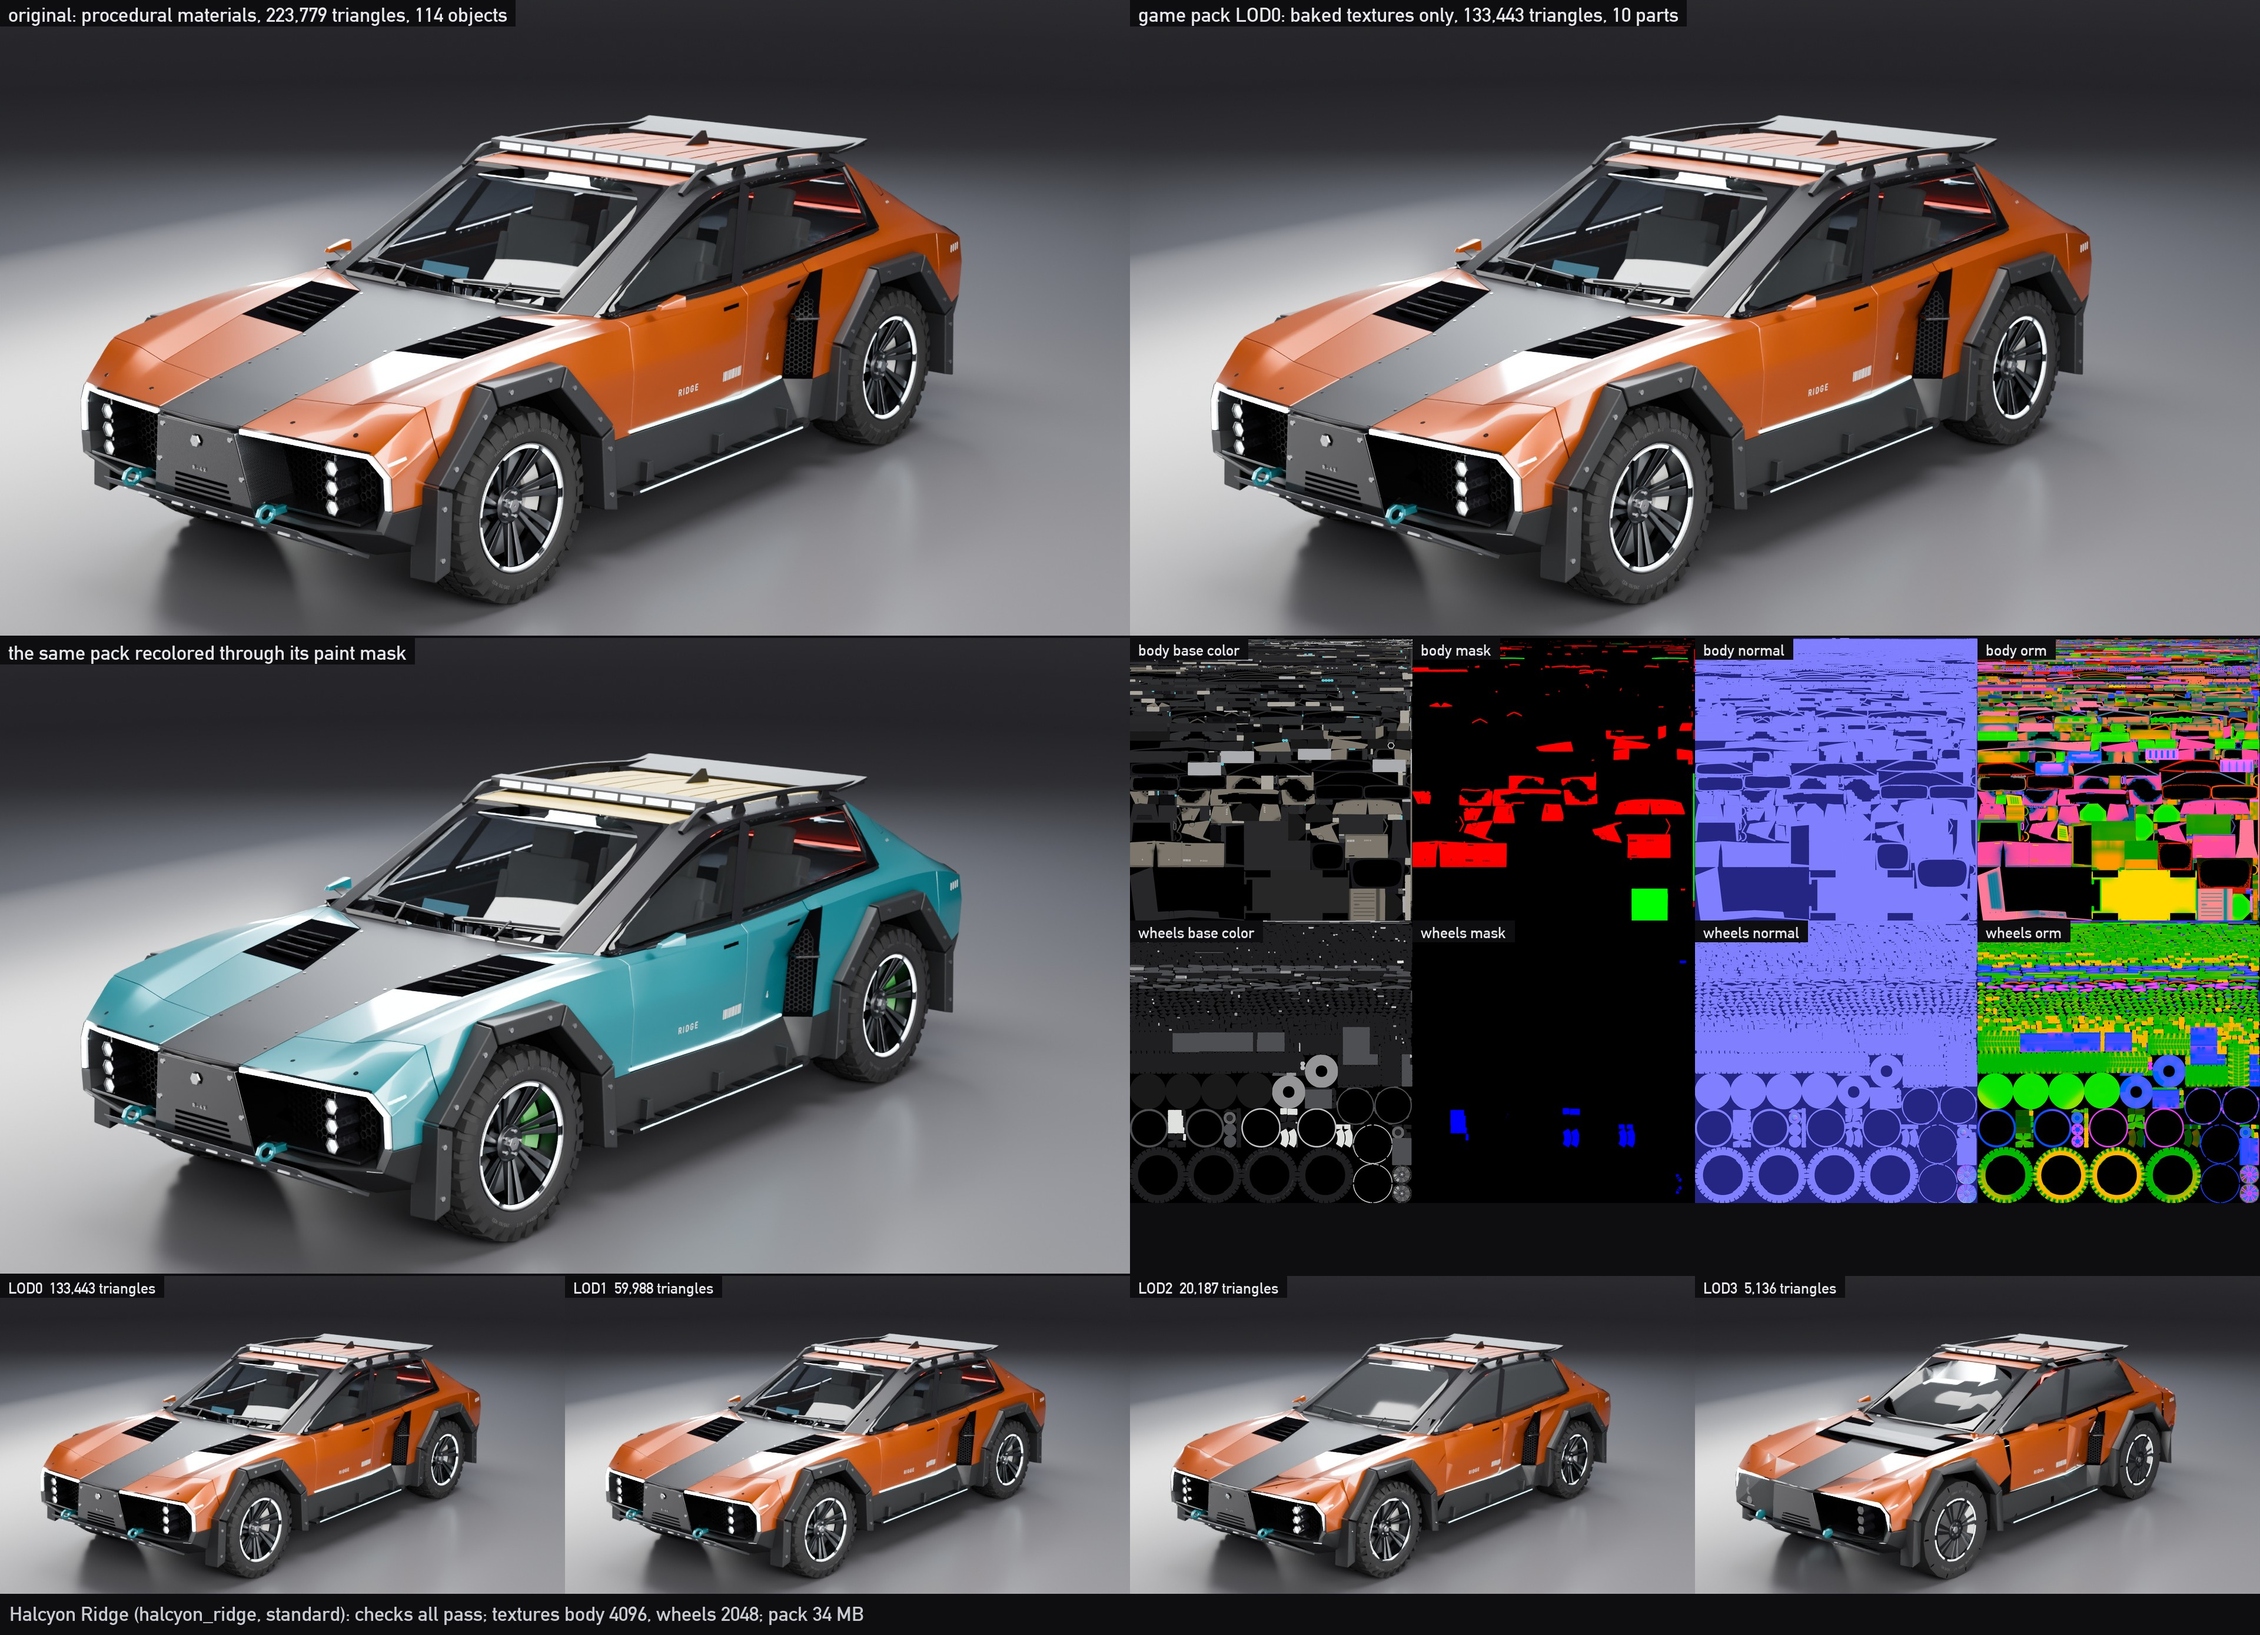
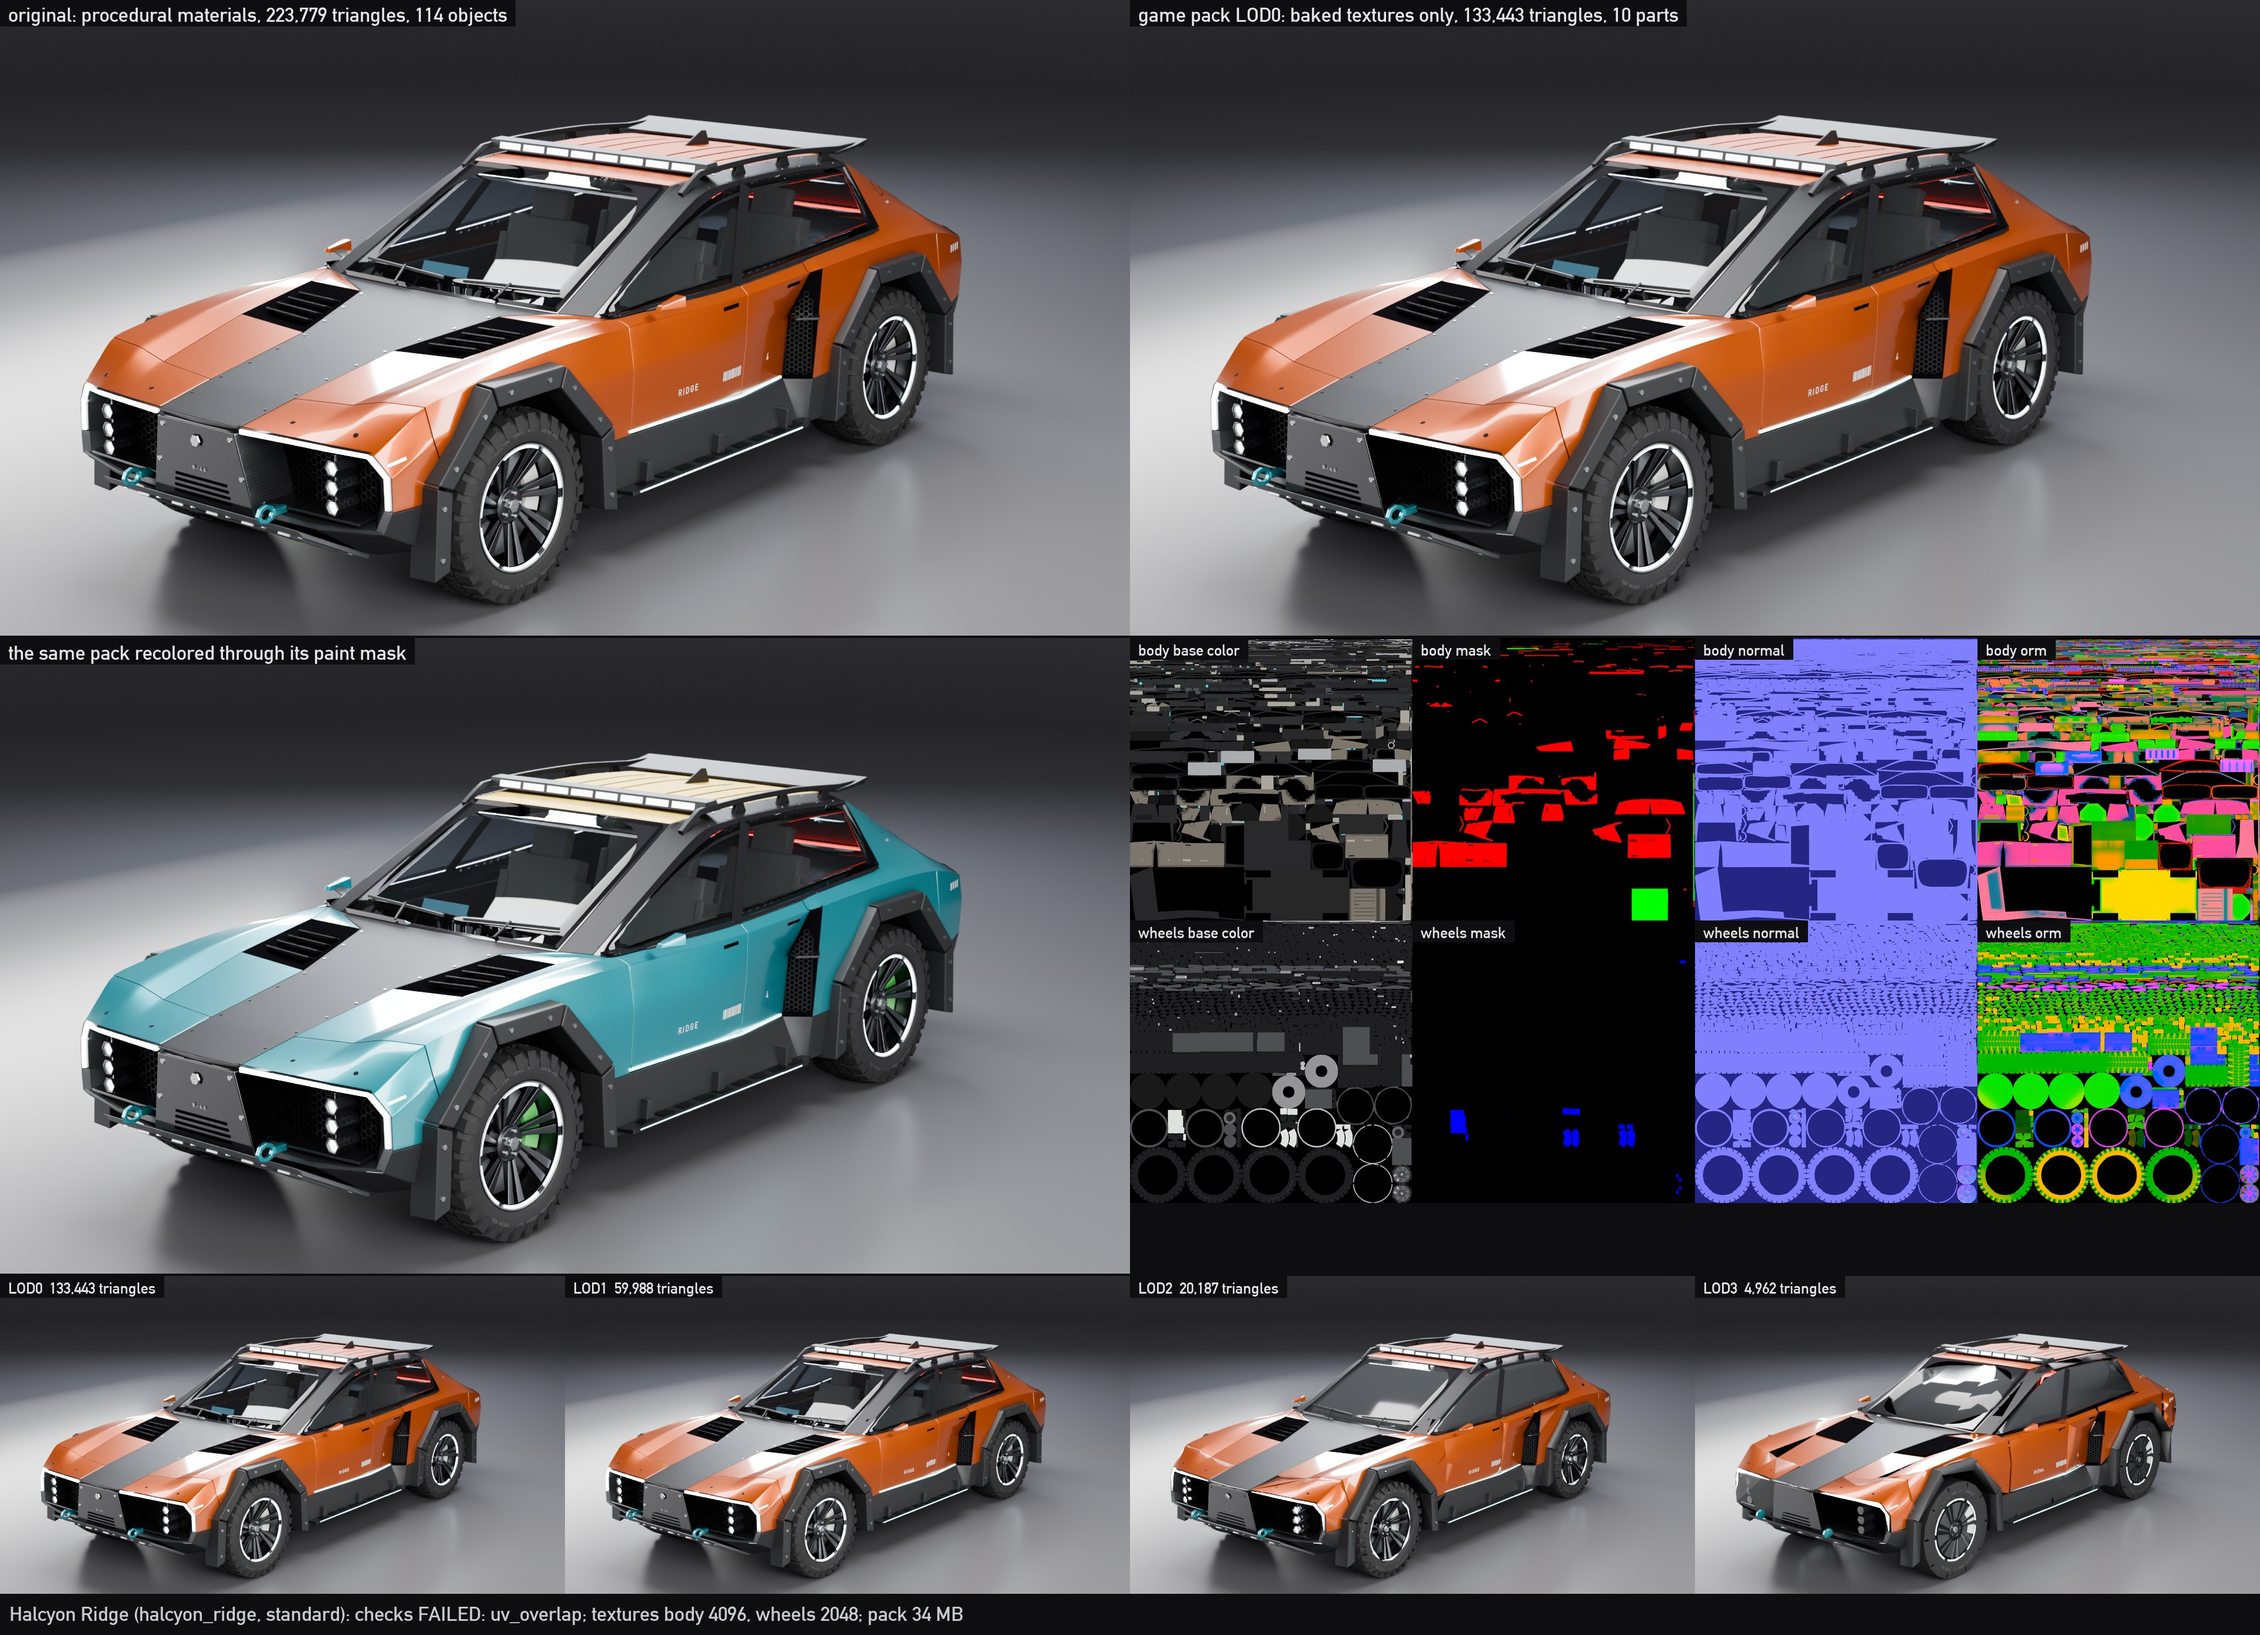
wip: pack faults 4

diff --git a/vehicles/game.py b/vehicles/game.py
@@ -1335,7 +1335,7 @@ def unwrap(ob, size, pad_px=None, boost=None, floor=None, thin=True, again=None,
     edit(ob)
     bpy.ops.uv.smart_project(angle_limit=1.15, island_margin=0.0, area_weight=0.0,
                              correct_aspect=True, scale_to_bounds=False)
-    for k, faces in enumerate(again or []):
+    for k, faces in enumerate((again or [])[:len(UV_AGAIN_ANGLES)]):
         # the faces of islands that lay over themselves, projected again in smaller charts
         # (a second, a third and a fourth time, smaller still, those that still did)
         bpy.ops.mesh.select_all(action='DESELECT')
@@ -1349,6 +1349,22 @@ def unwrap(ob, size, pad_px=None, boost=None, floor=None, thin=True, again=None,
         bpy.ops.uv.smart_project(angle_limit=UV_AGAIN_ANGLES[k], island_margin=0.0,
                                  area_weight=0.0, correct_aspect=True, scale_to_bounds=False)
     bpy.ops.object.mode_set(mode='OBJECT')
+    for faces in (again or [])[len(UV_AGAIN_ANGLES):]:
+        # still over themselves at the smallest angle (layers that face one way and meet
+        # at a vertex: no projection by direction parts them): each of those faces laid
+        # flat in its own plane, an island of its own
+        uvd = me.uv_layers.active.data
+        for i in sorted(faces):
+            poly = me.polygons[i]
+            nrm = V3(poly.normal)
+            if nrm.length < 0.5:
+                continue
+            e1 = nrm.orthogonal().normalized()
+            e2 = nrm.cross(e1)
+            for li, vi in zip(poly.loop_indices, poly.vertices):
+                d_ = me.vertices[vi].co - poly.center
+                uvd[li].uv = (d_.dot(e1), d_.dot(e2))
+        log("  %d faces laid flat one by one" % len(faces))
     log("  smart projection %s: %s" % (ob.name, _uvbox(me)))
     from bpy_extras import mesh_utils
     islands = mesh_utils.mesh_linked_uv_islands(me)
@@ -1458,14 +1474,16 @@ def unwrap(ob, size, pad_px=None, boost=None, floor=None, thin=True, again=None,
     log("  packed %s: %d islands, %.0f%% of the square, uv box %s" % (
         ob.name, len(islands), fill * 100, _uvbox(me)))
     ob["cg_detail_boost"] = f
-    if len(again or []) < len(UV_AGAIN_ANGLES):
+    if len(again or []) <= len(UV_AGAIN_ANGLES):
         # an island the projection laid over itself (a lip curling under its frame within
-        # the angle limit) is projected again in smaller charts; four times at most
+        # the angle limit) is projected again in smaller charts; four times at most, and
+        # what still lies over itself then is laid flat face by face
         lay = self_overlap(me, U, islands)
         if lay:
             n = len(again or [])
-            log("  %d islands (%d faces) overlap themselves: projected again at %.2f rad" % (
-                lay[0], len(lay[1]), UV_AGAIN_ANGLES[n]))
+            log("  %d islands (%d faces) overlap themselves: %s" % (
+                lay[0], len(lay[1]), "projected again at %.2f rad" % UV_AGAIN_ANGLES[n]
+                if n < len(UV_AGAIN_ANGLES) else "laid flat face by face"))
             return unwrap(ob, size, pad_px, boost, floor, thin,
                           again=list(again or []) + [lay[1]], fine=fine)
     return len(islands)

diff --git a/vehicles/GAME.md b/vehicles/GAME.md
@@ -182,7 +182,7 @@ door; a script written before the convention by its own variable, `SHUT_ENV` in 
 
 Smart projection per slot (66 degrees; the islands that end up covering texels another
 island covers, over 0.1% of the atlas, as a lip curling under its frame does, are projected
-again at 34 degrees, those still lying over themselves once more at 20, then at 11, then at 6), each island scaled to one texel density times its class's
+again at 34 degrees, those still lying over themselves once more at 20, then at 11, then at 6; what still does, layers that face one way and meet at a vertex, is laid flat face by face, each an island of its own), each island scaled to one texel density times its class's
 weight (exterior 1, cabin 0.4, underside 0.35, a lamp or a large face seen only in gaps 0.35, a rim face
 0.5; on a vehicle with no wheels, which floats and sets down when parked, a face under 0.5 m
 that only rays going down leave is underside: no eye gets under it, and its belly's texels

diff --git a/docs/assetgen_milestones.md b/docs/assetgen_milestones.md
@@ -3016,7 +3016,10 @@ What the survey found on the 18 cars ([`checks.md`](progress/AG18/checks.md) has
     panels the relief lies on, 23 m2; sending it to the islands under fine relief alone,
     also added, still left 6.6 m2).
   - The unwrap's retry for islands lying over themselves has a third and a fourth, smaller
-    angle (the Ridge's overlap: 0.52% of the texels against a limit of 0.5%).
+    angle, and what still lies over itself then is laid flat face by face (the Ridge's
+    overlap, 0.52% of the texels against a limit of 0.5%, is at the rear of its roof:
+    layers that face one way and meet at a vertex, which no smaller angle parted: 0.49%
+    after the third, 0.50% after the fourth).
 - **Parked and shut.** A pack is built with `CYBERGEN_SHUT=1` (and the Cab's own
   `CAB_SHUT`, `SHUT_ENV`): the taxi's sliding door is closed. Its fold-out step is still
   out (the script draws it either way).
